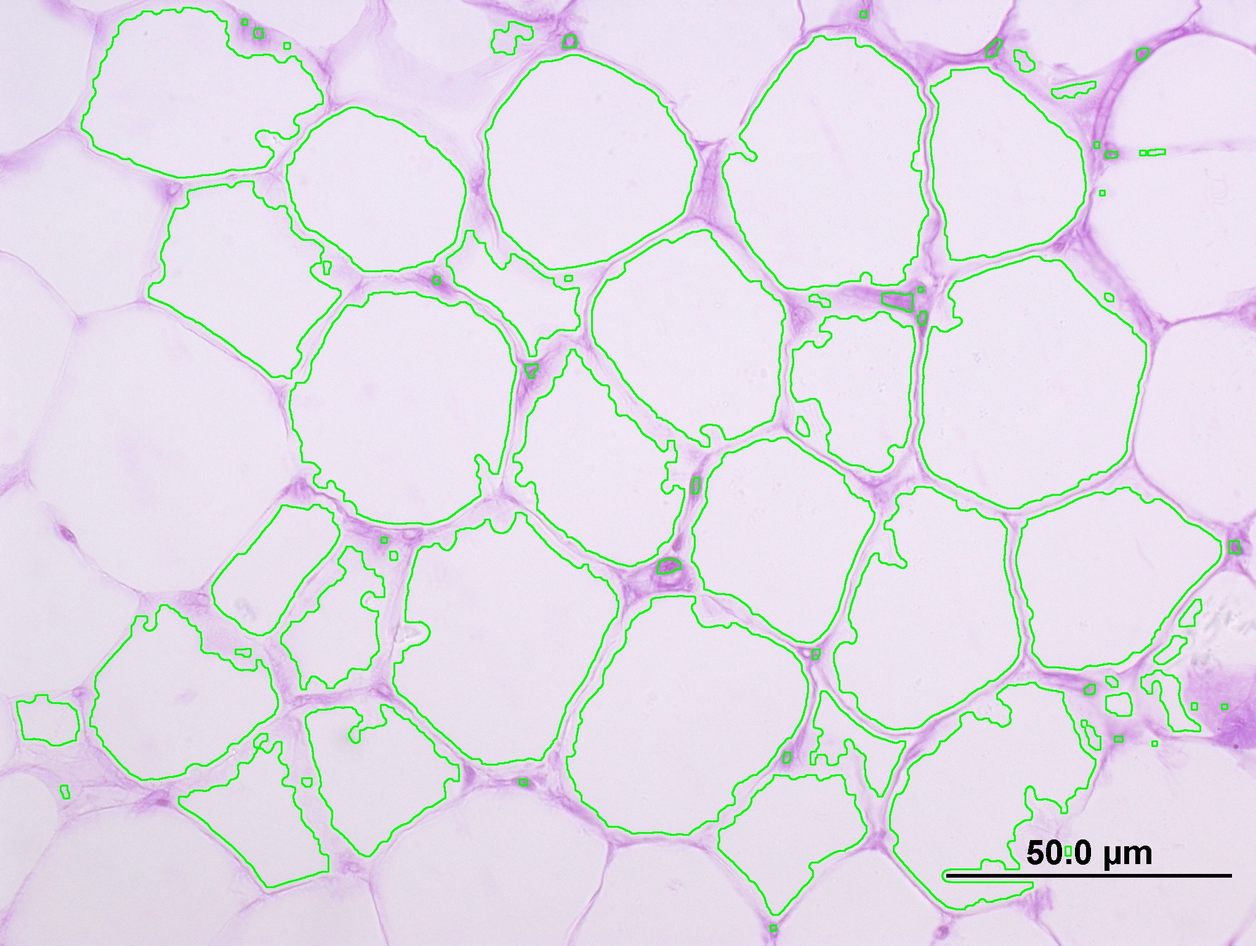
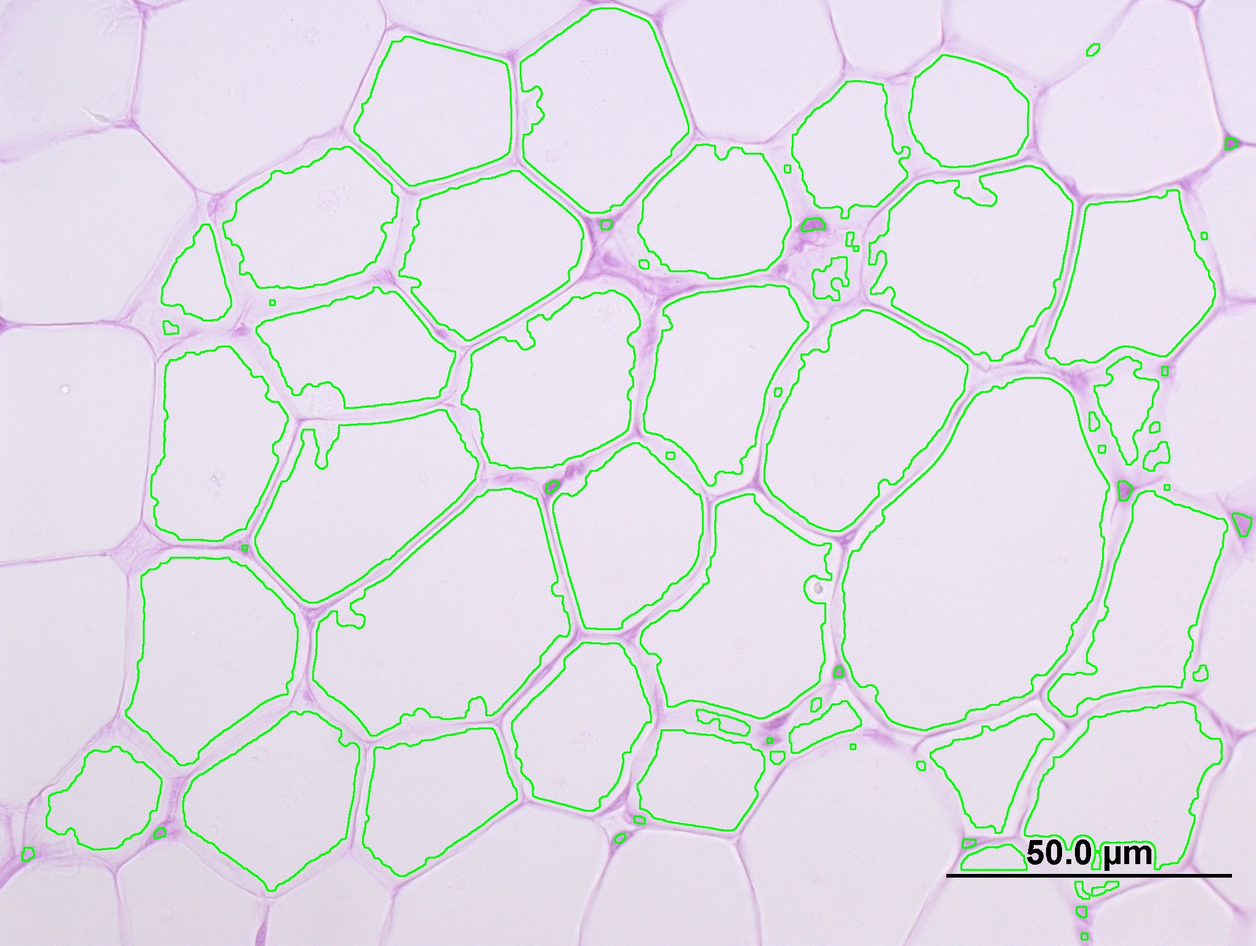
Add files via upload

diff --git a/SCAP/main.py b/SCAP/main.py
@@ -3,12 +3,12 @@ import sys
 from typing import Any
 
 from PySide6.QtWidgets import QApplication, QMainWindow, QFileDialog, QWidget
-from PySide6.QtCore import Slot, QSize, QEventLoop, QPoint, Qt
+from PySide6.QtCore import Slot, QSize, QEventLoop, QPoint, Qt, QDir
 from PySide6.QtGui import QAction, QPixmap, QKeySequence, QShortcut, QPainter, QPen
 
 
 import PySide6.QtCore as QtCore
-from cv2 import threshold
+from cv2 import threshold, imread
 
 from Ui_MainWindow import Ui_MainWindow
 from final_form import Ui_Dialog as Ui_final_form
@@ -16,7 +16,7 @@ from assisted_form import Ui_Dialog as Ui_assisted_form
 from drawing_form import DrawingDialog
 #from panel_form import Ui_Form as Ui_panel_form
 import processing_definitions
-
+from drawing_window import Paint
 
 #class PanelForm(QWidget):
 #    def __init__(self):
@@ -147,17 +147,13 @@ class MainWindow(QMainWindow):
         self.ui.label.setPixmap(self.pix)
         # sub janelas
         self.assisted_form = DrawingForm()
+        #flags
+        self.folder_mode = False
+        self.folder_queue = []
 
     def run_action_file(self):
         print("run_action_file")
-        # selector = QFileDialog(
-        #     parent=None,
-        #     caption="Selecione a imagem desejada",
-        #     directory='.',
-        #     filter="*.png; *.jpg; *.jpeg; *.bpm"
-        # )
-        # selector.setFileMode(QFileDialog.ExistingFile)
-        # selector.
+        self.folder_mode = False
         fileName, used_filter = QFileDialog.getOpenFileName(self,
             caption="Selecione uma imagem",
             dir=".",
@@ -172,13 +168,27 @@ class MainWindow(QMainWindow):
     
     def run_action_folder(self):
         print("run_action_folder")
+        self.folder_mode = True
         path = QFileDialog.getExistingDirectory(
             caption="Selecione uma pasta contendo as imagens",
-            dir='.'
-        )
+            dir=".",
+            options=QFileDialog.Option.DontUseNativeDialog)
         print(path)
+        mydir = QDir(path)
+        arq_path = mydir.entryList(['*.png', '*.jpg', '*.bmp'])
+        print(arq_path)     
+
         if path:
             self.ui.Automatic.setEnabled(True)
+
+        self.folder_queue = [f'{path}/{x}' for x in arq_path]
+
+        #for x in arq_path:
+        #self.pix.load(arq_path)
+        #self.pix_scaled = self.pix.scaled(QSize(*self.img_shape), QtCore.Qt.KeepAspectRatio)
+        #self.ui.label.setPixmap(self.pix_scaled)
+               
+        
 
     def run_assisted(self):
         print('run_assisted')
@@ -193,35 +203,73 @@ class MainWindow(QMainWindow):
         rso_image = processing_definitions.remove_small_objects(erode_image)
         close_image = processing_definitions.closing(rso_image)
         #aqui diferente da automatica vai fazer a chamada para a tela de pintar
-        self.assisted_form.set_pixmap(
-            processing_definitions.cv2pix(close_image)
-        )
-        self.call_assisted_window()
+
+        paintwindow = Paint()
+        # Cria um loop para segurar a execução
+        loop = QEventLoop()
+        # Conecta destruição do widget com saida do loop
+        paintwindow.destroyed.connect(loop.quit)
+        # Executa loop para segurar a execução
+        loop.exec()
+        print("teste")
         
-        floodfill_image, processed_image = processing_definitions.flood_fill(close_image, cv_image)
+        painted_image = processing_definitions.processed_image()
+        floodfill_image, processed_image = processing_definitions.flood_fill(painted_image, cv_image)
         ff_dist_image, ff_bin_image= processing_definitions.dist_transform_plus_thresh()
         adipocyte_number = processing_definitions.count_it(ff_dist_image, ff_bin_image, processed_image)
         final_image = processing_definitions.cv2pix(processed_image)
+        print("adipocitos: ", adipocyte_number)
         #self.clean_up()
 
     def run_automatic(self):
         print('run_auto')
-        pix_image = self.pix
-        cv_image = processing_definitions.pix2cv(pix_image)
-        gray_image = processing_definitions.gray_scale_transformation(cv_image)
-        contrast_stretching_image = processing_definitions.contrast_stretching(gray_image)
-        blur_image = processing_definitions.blur(contrast_stretching_image)
-        canny_edge_image = processing_definitions.canny_edge(blur_image)
-        gauss_thresh_image = processing_definitions.gaussian_threshold(canny_edge_image)
-        erode_image = processing_definitions.erode(gauss_thresh_image)
-        rso_image = processing_definitions.remove_small_objects(erode_image)
-        close_image = processing_definitions.closing(rso_image)
-        floodfill_image, processed_image = processing_definitions.flood_fill(close_image, cv_image)
-        ff_dist_image, ff_bin_image= processing_definitions.dist_transform_plus_thresh()
-        adipocyte_number = processing_definitions.count_it(ff_dist_image, ff_bin_image, processed_image)
-        final_image = processing_definitions.cv2pix(processed_image)
-        print("adipocitos aqui: ", adipocyte_number)
-        #self.clean_up()
+        if self.folder_mode:
+            for image_path in self.folder_queue:
+                print(image_path)
+                x = image_path.split(".", 1)
+                print(x)
+                cv_image = imread(image_path)
+                gray_image = processing_definitions.gray_scale_transformation(cv_image)
+                contrast_stretching_image = processing_definitions.contrast_stretching(gray_image)
+                blur_image = processing_definitions.blur(contrast_stretching_image)
+                canny_edge_image = processing_definitions.canny_edge(blur_image)
+                gauss_thresh_image = processing_definitions.gaussian_threshold(canny_edge_image)
+                erode_image = processing_definitions.erode(gauss_thresh_image)
+                rso_image = processing_definitions.remove_small_objects(erode_image)
+                close_image = processing_definitions.closing(rso_image)
+                floodfill_image, processed_image = processing_definitions.flood_fill(close_image, cv_image)
+                ff_dist_image, ff_bin_image= processing_definitions.dist_transform_plus_thresh()
+                adipocyte_number = processing_definitions.count_it(
+                    ff_dist_image, 
+                    ff_bin_image, 
+                    processed_image, 
+                    contorno = '{}_contorno.png'.format(x[0]),
+                    final = '{}_final.png'.format(x[0])
+                )
+                final_image = processing_definitions.cv2pix(processed_image)
+                print(f"adipocitos {image_path}: ", adipocyte_number)
+                #x = x + 1
+                #y = y + 1
+                #self.clean_up()
+
+        else:
+            pix_image = self.pix
+            cv_image = processing_definitions.pix2cv(pix_image)
+            gray_image = processing_definitions.gray_scale_transformation(cv_image)
+            contrast_stretching_image = processing_definitions.contrast_stretching(gray_image)
+            blur_image = processing_definitions.blur(contrast_stretching_image)
+            canny_edge_image = processing_definitions.canny_edge(blur_image)
+            gauss_thresh_image = processing_definitions.gaussian_threshold(canny_edge_image)
+            erode_image = processing_definitions.erode(gauss_thresh_image)
+            rso_image = processing_definitions.remove_small_objects(erode_image)
+            close_image = processing_definitions.closing(rso_image)
+            floodfill_image, processed_image = processing_definitions.flood_fill(close_image, cv_image)
+            ff_dist_image, ff_bin_image= processing_definitions.dist_transform_plus_thresh()
+            adipocyte_number = processing_definitions.count_it(ff_dist_image, ff_bin_image, processed_image)
+            final_image = processing_definitions.cv2pix(processed_image)
+            print("adipocitos aqui: ", adipocyte_number)
+            #self.clean_up()
+        
 
     def clean_up(self):
         self.ui.Assisted.setDisabled(True)

diff --git a/SCAP/processing_definitions.py b/SCAP/processing_definitions.py
@@ -55,6 +55,7 @@ def closing(invert):
     # Morph close and invert image
     kernel = cv.getStructuringElement(cv.MORPH_RECT, (5,5))
     close = 255 - cv.morphologyEx(invert, cv.MORPH_CLOSE, kernel, iterations=2)
+    cv.imwrite("tempclose.png", close)
 
     return close
 
@@ -83,6 +84,15 @@ def flood_fill(close, image):
 
     
     return img_floodfill, rgb
+
+def processed_image():
+    close= imread("processed.png")
+    close = cv.cvtColor(close, cv.COLOR_BGR2GRAY)
+    close = cv.adaptiveThreshold(close,255,cv.ADAPTIVE_THRESH_GAUSSIAN_C,\
+               cv.THRESH_BINARY,11,2)
+
+    return close
+
  
 def dist_transform_plus_thresh(thresh_proportion: int = 0.130 ,write: bool = False):
     floodfilled = cv.imread("floodfilled.jpg")
@@ -97,7 +107,7 @@ def dist_transform_plus_thresh(thresh_proportion: int = 0.130 ,write: bool = Fal
 
     return ff_dist, ff_bin
 
-def count_it(ff_dist, ff_bin, processed_image):
+def count_it(ff_dist, ff_bin, processed_image, contorno: str = "contorno.png", final: str = "final.png"):
 
     ff_dist, ff_bin = dist_transform_plus_thresh(0.130, False)
 
@@ -142,17 +152,17 @@ def count_it(ff_dist, ff_bin, processed_image):
                     c = c+1
             i = i + 1
 
-        cv.imwrite("contorno.jpg", rgb)    
-        cv.imwrite("final.jpg",image_f)
+        cv.imwrite(contorno, rgb)    
+        cv.imwrite(final,image_f)
     return len(cnt)
 
 def cv2pix(image):
-    imwrite(".temp.png", image)
+    imwrite("temp.png", image)
     converted = QPixmap()
-    converted.load(".temp.png")
+    converted.load("temp.png")
     return converted
 
 def pix2cv(image:QPixmap):
-    image.save(".temp.png")
-    converted = imread(".temp.png")
+    image.save("temp.png")
+    converted = imread("temp.png")
     return converted

diff --git a/SCAP/drawing_window.py b/SCAP/drawing_window.py
@@ -7,23 +7,25 @@ import sys
 from PySide6.QtCore import Qt, QPoint, Slot
 from PySide6.QtWidgets import QMainWindow, QApplication, QWidget
 from PySide6.QtGui import QPainter, QPixmap, QPen, QKeySequence, QShortcut
-
 from PySide6 import QtCore
+import PySide6
 
-class Menu(QWidget):
+class Paint(QWidget):
 
     image: QPixmap
     OG_shape: tuple[int,int]
 
     def __init__(self):
         super().__init__()
+        self.setAttribute(QtCore.Qt.WA_DeleteOnClose)
+        self.destroyed.connect(self.save)
 
         self.save_shortcut = QShortcut(QKeySequence("Ctrl+S"),self)
         self.save_shortcut.activated.connect(self.save)
 
         self.drawing = False
         self.lastPoint = QPoint()
-        self.image = QPixmap("limpoclose.jpg")
+        self.image = QPixmap("tempclose.png")
         self.OG_shape = (
             self.image.width(),
             self.image.height()
@@ -70,13 +72,18 @@ class Menu(QWidget):
         if event.button == Qt.RightButton:
             self.drawing = False    
 
-    @Slot()
+    def closeEvent(self, event: PySide6.QtGui.QCloseEvent) -> None:
+        self.save()
+        return super().closeEvent(event)
+
+    #@Slot()
     def save(self):
-        self.image.scaled(*self.OG_shape).save("temp.png","png")
+        print('save was called')
+        self.image.scaled(*self.OG_shape).save("processed.png","png")
         
 
 if __name__ == '__main__':
     app = QApplication(sys.argv)
-    mainMenu = Menu()
+    mainMenu = Paint()
     sys.exit(app.exec())
 
